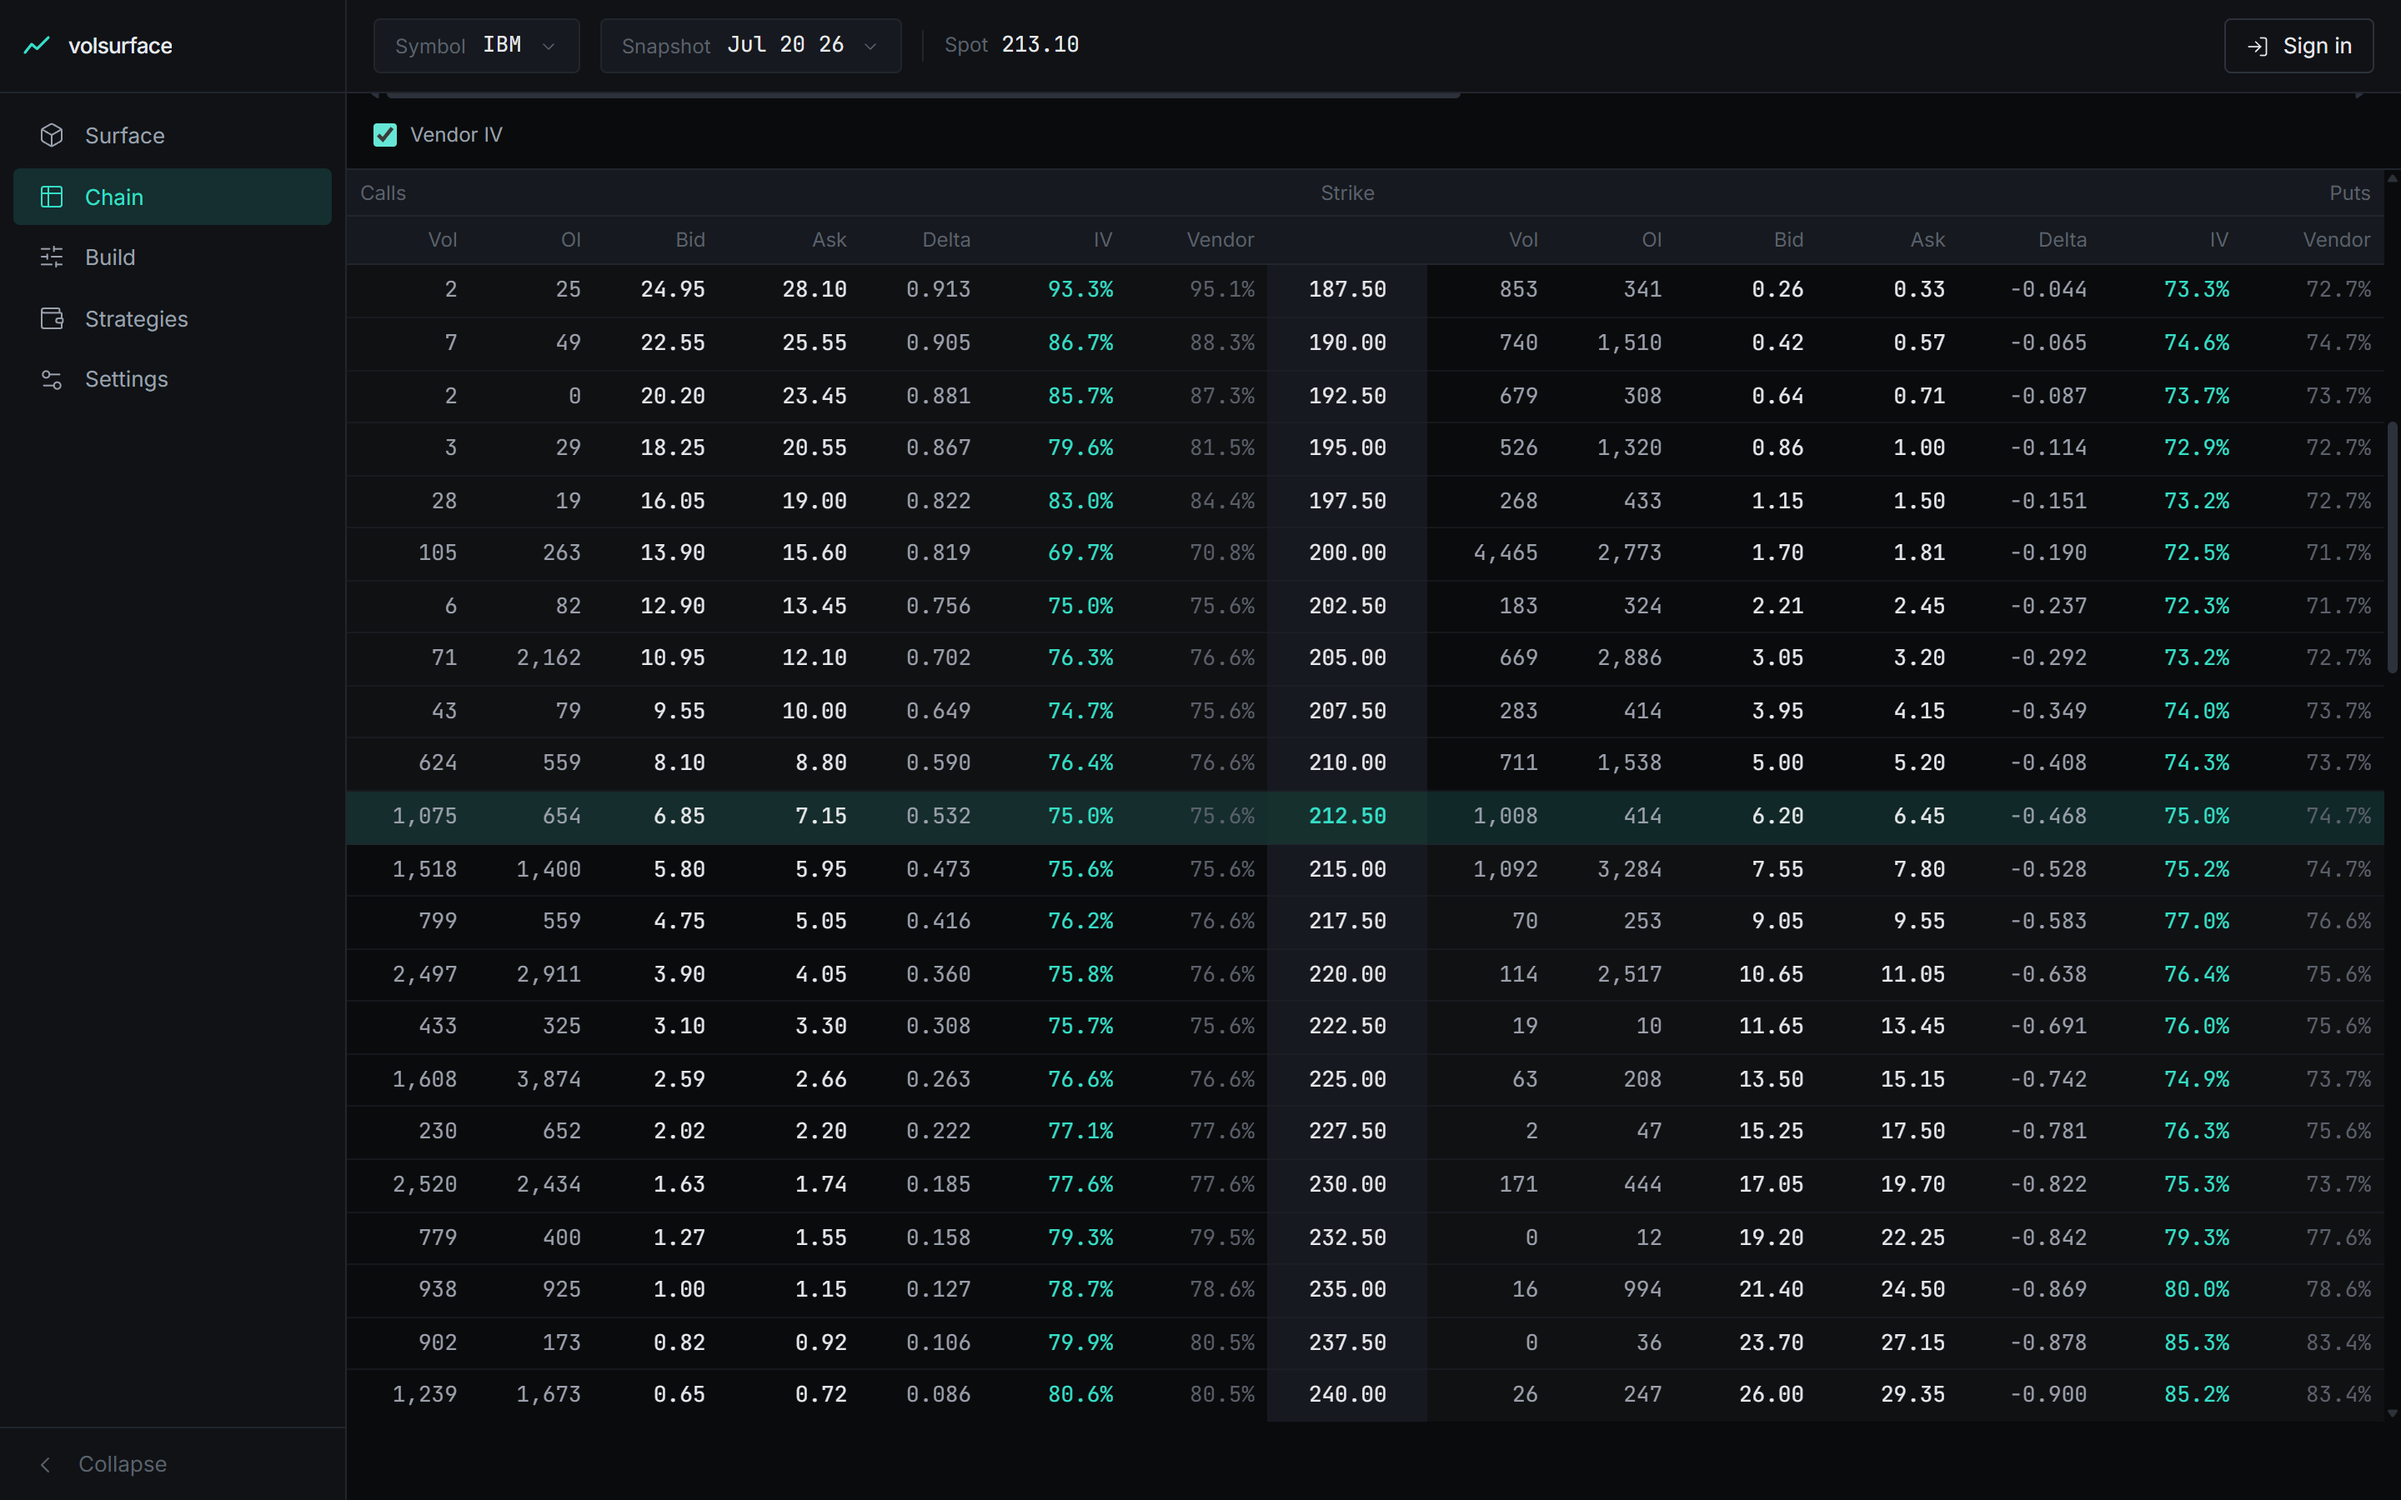
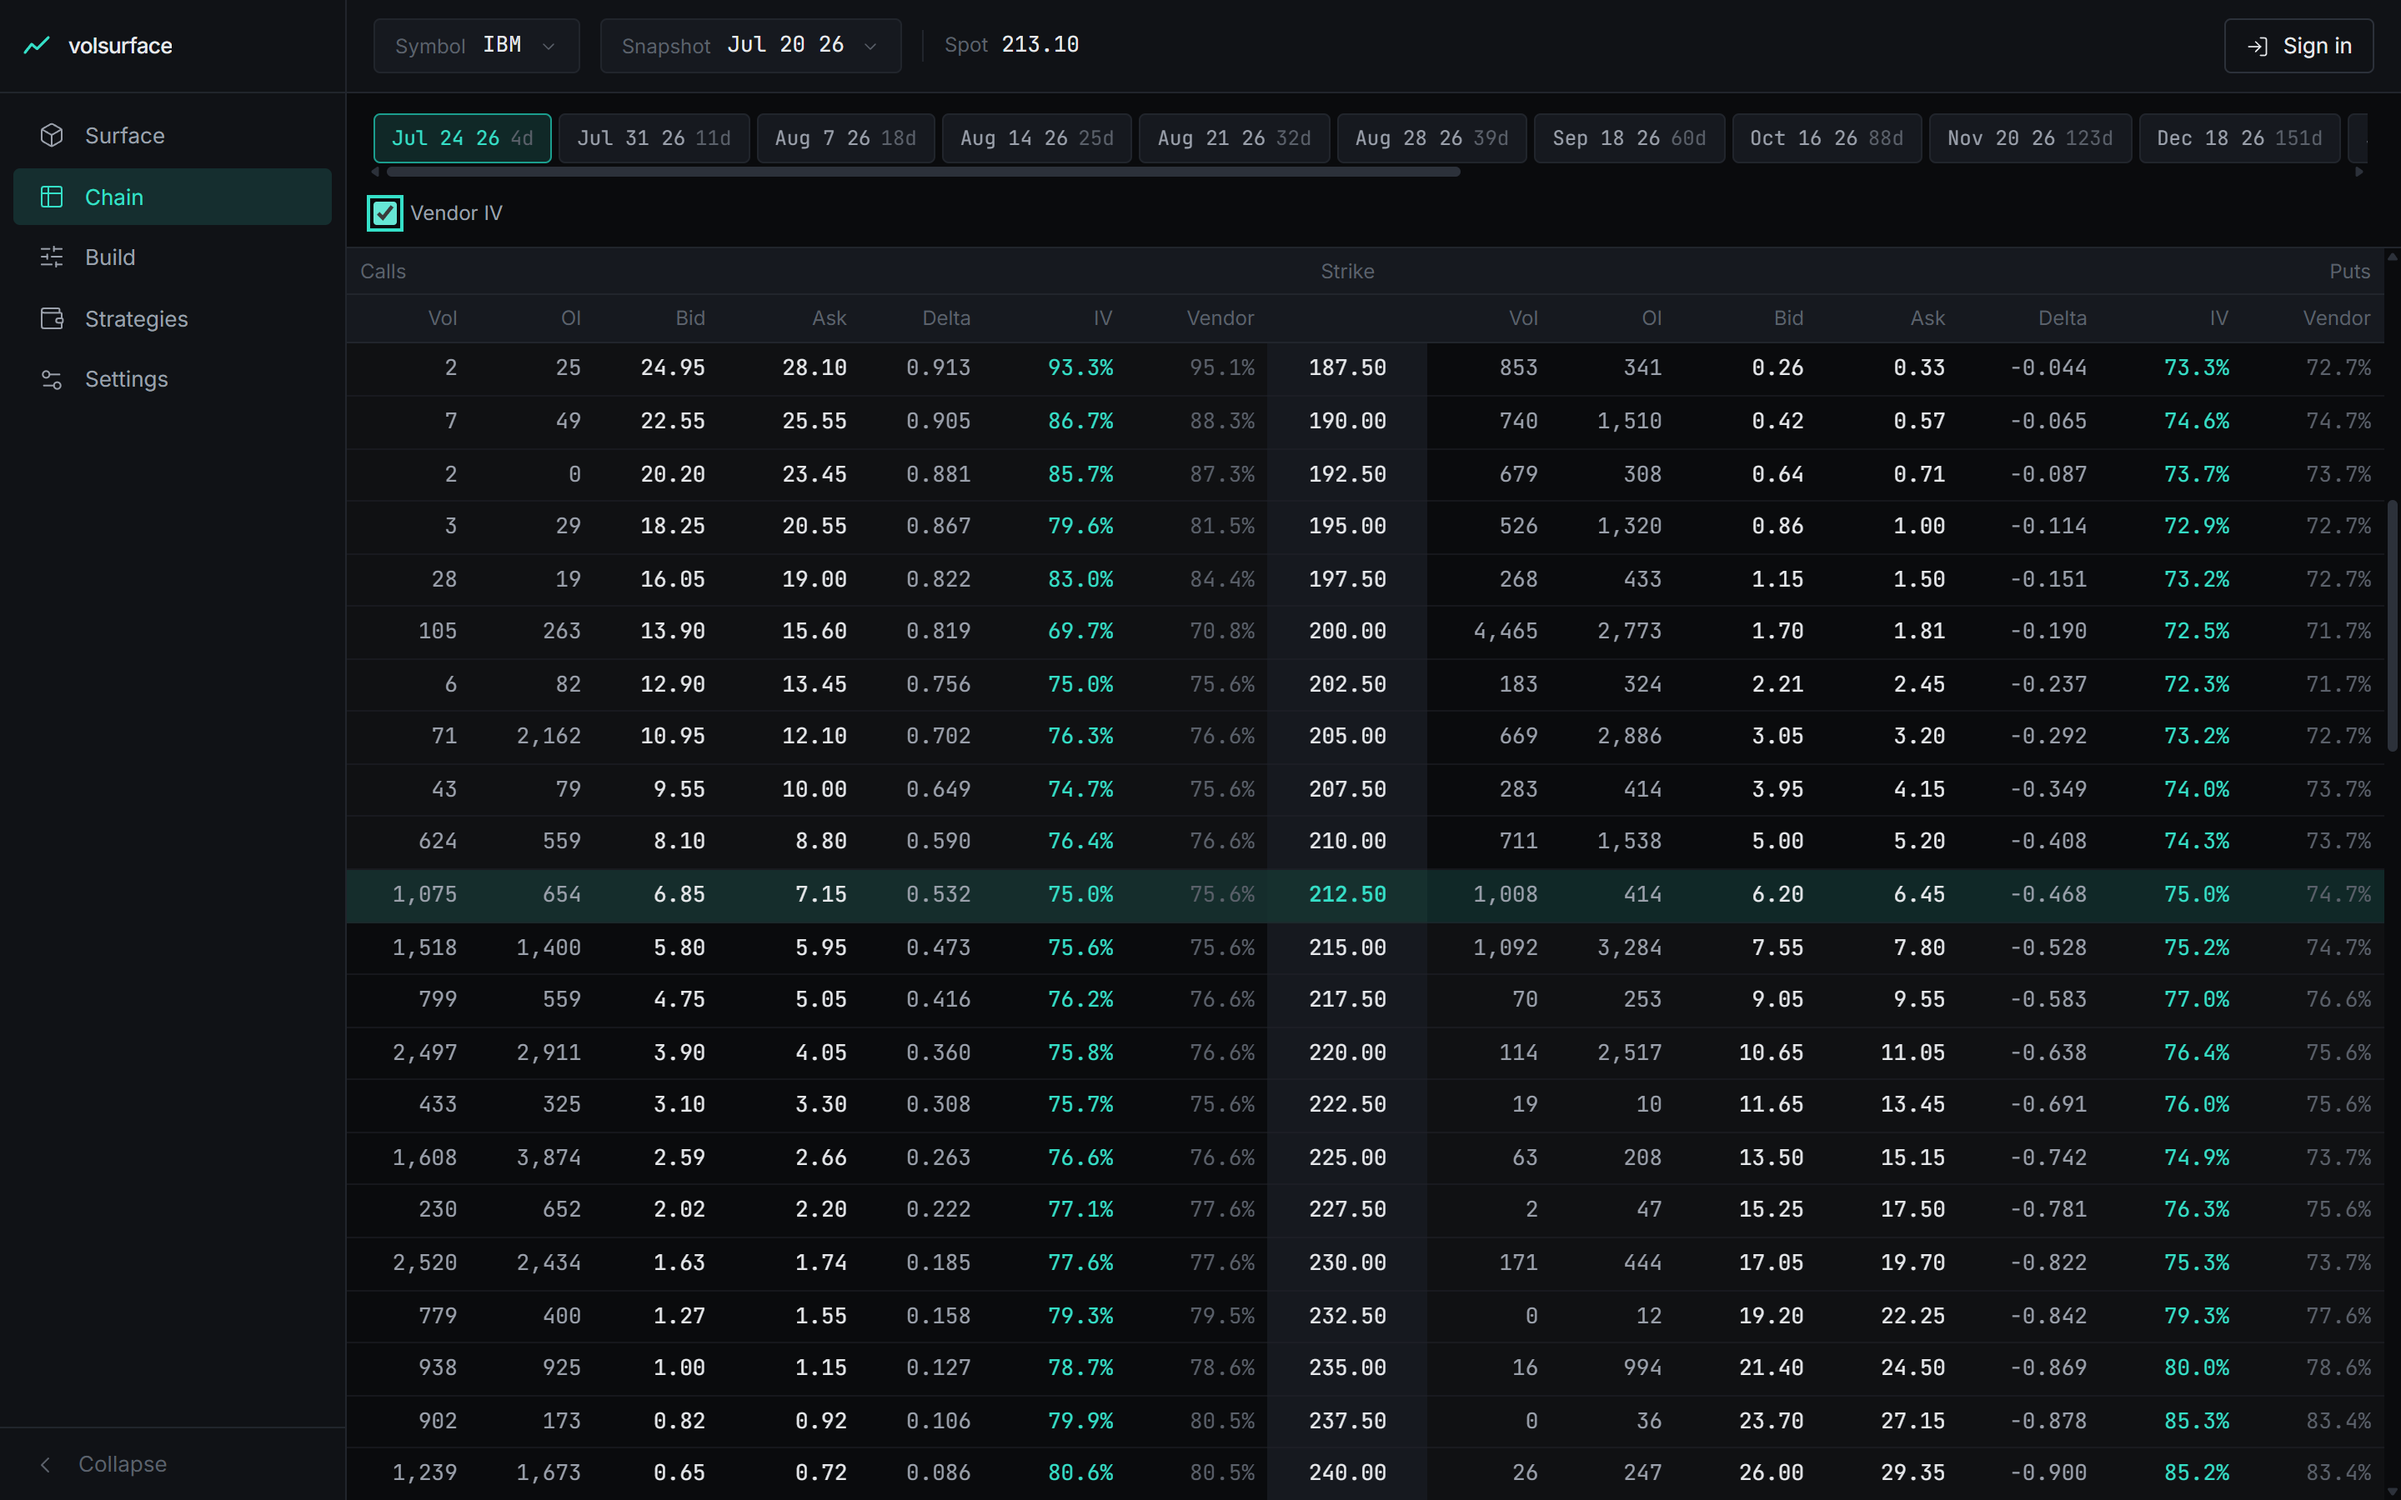
Refresh the readme screenshots

diff --git a/frontend/e2e/readme-shots.e2e.ts b/frontend/e2e/readme-shots.e2e.ts
@@ -128,6 +128,14 @@ test("chain and contract detail", async ({ page }) => {
   await expect(page.getByRole("complementary", { name: "Contract detail" })).toBeVisible();
   await settle(page);
   await alignRows(page);
+
+  // the panel scrolls with the table it sits over, so aligning the rows drags
+  // its header out of frame. it is the contract's identity, so it has to be in
+  // the picture.
+  await page.evaluate(() => {
+    document.querySelector("aside[aria-label='Contract detail']")?.scrollTo(0, 0);
+  });
+  await settle(page, 250);
   await page.screenshot({ path: `${DIR}/contract-panel.png`, scale: "device" });
 });
 
